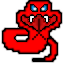
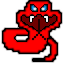
new game mode feature, minor changes on hard difficulty sprite, added adjustable apple gen

diff --git a/states/game_modes.py b/states/game_modes.py
@@ -1,0 +1,133 @@
+from components.button import *
+
+
+class GameModes:
+    def __init__(self, app):
+        self.game_modes_buttons = []
+        self.app = app
+        self.bg = pygame.image.load("imgs/menu.png")
+
+    def game_modes_events(self):
+        # GAME MODES EVENT HANDLING
+        for event in pygame.event.get():
+            if event.type == pygame.QUIT:
+                self.app.running = False
+            if event.type == pygame.K_ESCAPE:
+                self.app.running = False
+            if event.type == pygame.MOUSEBUTTONDOWN:
+                for button in self.game_modes_buttons:
+                    if button.hovered:
+                        button.click()
+                    else:
+                        pass
+
+    def game_modes_update(self):
+        # INTRO STATE UPDATE
+        for button in self.app.active_buttons:
+            button.update()
+
+    def game_modes_draw(self):
+        # INTRO STATE DRAW
+        for button in self.app.active_buttons:
+            button.draw()
+
+    def game_modes_casual(self):
+        # CASUAL MODE
+        self.app.apples_amount = 1
+        self.app.make_apples()
+        self.app.mode = "casual"
+        self.app.state = "interlude"
+
+    def game_modes_competitive(self):
+        # COMPETITIVE MODE
+        self.app.apples_amount = 1
+        self.app.make_apples()
+        self.app.mode = "competitive"
+        self.app.state = "interlude"
+
+    def game_modes_apples(self):
+        self.app.apples_amount = 500
+        self.app.make_apples()
+        self.app.mode = "apples"
+        self.app.state = "interlude"
+
+    def game_modes_obstacles(self):
+        self.app.apples_amount = 1
+        self.app.make_apples()
+        self.app.mode = "obstacles"
+        self.app.state = "interlude"
+
+    def game_modes_intro(self):
+        self.app.state = "intro"
+        self.app.active_buttons = self.app.intro.intro_buttons
+
+    def game_modes_quit(self):
+        # QUIT FROM INTRO STATE
+        self.app.running = False
+
+    def make_game_modes_buttons(self):
+        # MAKE INTRO BUTTONS
+        game_modes_casual_button = Button(self.app,
+                                        [300, 75],
+                                        200,
+                                        75,
+                                        COLORS.get("dark_green"),
+                                        TEXT_SIZE.get("medium"),
+                                        hover_color=COLORS.get("green"),
+                                        action=self.game_modes_casual,
+                                        text="KLASIKA")
+        self.game_modes_buttons.append(game_modes_casual_button)
+
+        game_modes_competitive_button = Button(self.app,
+                                        [300, 200],
+                                        200,
+                                        75,
+                                        COLORS.get("purple"),
+                                        TEXT_SIZE.get("medium"),
+                                        hover_color=COLORS.get("light_purple"),
+                                        action=self.game_modes_competitive,
+                                        text="KOMPET")
+        self.game_modes_buttons.append(game_modes_competitive_button)
+
+        game_modes_apples_button = Button(self.app,
+                                               [300, 325],
+                                               200,
+                                               75,
+                                               COLORS.get("red"),
+                                               TEXT_SIZE.get("medium"),
+                                               hover_color=COLORS.get("light_red"),
+                                               action=self.game_modes_apples,
+                                               text="JABKA")
+        self.game_modes_buttons.append(game_modes_apples_button)
+
+        game_modes_obstacles_button = Button(self.app,
+                                               [300, 450],
+                                               200,
+                                               75,
+                                               COLORS.get("orange"),
+                                               TEXT_SIZE.get("medium"),
+                                               hover_color=COLORS.get("light_orange"),
+                                               action=self.game_modes_obstacles,
+                                               text="KLÁDY")
+        self.game_modes_buttons.append(game_modes_obstacles_button)
+
+        game_modes_intro_button = Button(self.app,
+                                        [20, 805],
+                                        225,
+                                        50,
+                                        COLORS.get("yellow"),
+                                        TEXT_SIZE.get("small"),
+                                        hover_color=COLORS.get("light_yellow"),
+                                        action=self.game_modes_intro,
+                                        text="ZPĚT DO MENU")
+        self.game_modes_buttons.append(game_modes_intro_button)
+        game_modes_quit_button = Button(self.app,
+                                   [655, 805],
+                                   125,
+                                   50,
+                                   COLORS.get("red"),
+                                   TEXT_SIZE.get("small"),
+                                   hover_color=COLORS.get("light_red"),
+                                   action=self.game_modes_quit,
+                                   text="KONEC")
+        self.game_modes_buttons.append(game_modes_quit_button)

diff --git a/app.py b/app.py
@@ -2,31 +2,41 @@ import sys
 from game_window import *
 from entities.snake import *
 from entities.apple import *
-from states import play, intro, state_machine, pause, interlude, instructions, end_game
+from states import play, intro, state_machine, pause, interlude, instructions, end_game, game_modes
 
 
 class App:
     def __init__(self):
+        # ESSENTIALS
         pygame.init()
         self.clock = pygame.time.Clock()
         self.screen = pygame.display.set_mode((CELL_NUMBER * CELL_SIZE, (CELL_NUMBER * CELL_SIZE)+75))
         self.running = True
         self.fps = FPS
-        self.state = "intro"
-        self.state_machine = state_machine.StateMachine(self)
+        self.game_window = GameWindow(self)
+        # ICON
         self.icon = pygame.image.load("imgs/logo.png")
         pygame.display.set_icon(self.icon)
         pygame.display.set_caption("Had")
-        self.game_window = GameWindow(self)
+        # ENTITIES
+        self.snakes_start_pos = [Vector2(5, 10), Vector2(4, 10), Vector2(3, 10), Vector2(5, 5), Vector2(4, 5), Vector2(3, 5)]
         self.snake = Snake(self, [Vector2(5, 10), Vector2(4, 10), Vector2(3, 10)], Vector2(0, 0), False, "green")
         self.snake_2 = Snake(self, [Vector2(5, 5), Vector2(4, 5), Vector2(3, 5)], Vector2(0, 0), False, "purple")
-        self.apple = Apple(self)
+        self.apples_amount = 1
+        self.apples = []
+        self.make_apples()
+        # STATES
+        self.state = "intro"
+        self.state_machine = state_machine.StateMachine(self)
         self.intro = intro.Intro(self)
         self.interlude = interlude.Interlude(self)
         self.play = play.Play(self)
         self.pause = pause.Pause(self)
         self.instructions = instructions.Instructions(self)
         self.end_game = end_game.EndGame(self)
+        self.game_modes = game_modes.GameModes(self)
+        self.mode = None
+        # COMPONENTS
         self.active_buttons = self.intro.intro_buttons
         self.make_buttons()
         self.make_texts()
@@ -46,6 +56,7 @@ class App:
             self.clock.tick(self.fps)
             print(self.fps)
             print(self.instructions.active_difficulty)
+            print(self.mode)
         quit()
 
     def make_buttons(self):
@@ -55,6 +66,7 @@ class App:
         self.pause.make_pause_buttons()
         self.instructions.make_instructions_buttons()
         self.end_game.make_end_game_buttons()
+        self.game_modes.make_game_modes_buttons()
 
     def make_texts(self):
         self.instructions.make_instructions_texts()
@@ -62,3 +74,11 @@ class App:
 
     def make_difficulty(self):
         self.instructions.make_difficulty_snakes()
+
+    def make_apples(self):
+        self.apples = []
+        for num in range(self.apples_amount):
+            apple = Apple(self, random.randint(0, CELL_NUMBER - 1), random.randint(0, CELL_NUMBER - 1))
+            if apple.pos not in self.snakes_start_pos:
+                self.apples.append(apple)
+

diff --git a/states/intro.py b/states/intro.py
@@ -31,19 +31,21 @@ class Intro:
         for button in self.app.active_buttons:
             button.draw()
 
-    def intro_interlude_p1(self):
+    def intro_game_modes_p1(self):
         # FROM INTRO STATE TO PLAY
         self.app.snake.reset()
         self.app.snake_2.reset()
         self.app.snake_2.mp_disable = True
-        self.app.state = "interlude"
+        self.app.state = "game_modes"
+        self.app.active_buttons = self.app.game_modes.game_modes_buttons
 
-    def intro_interlude_p2(self):
+    def intro_game_modes_p2(self):
         # FROM INTRO STATE TO PLAY
         self.app.snake.reset()
         self.app.snake_2.reset()
         self.app.snake_2.mp_disable = False
-        self.app.state = "interlude"
+        self.app.state = "game_modes"
+        self.app.active_buttons = self.app.game_modes.game_modes_buttons
 
     def intro_instructions(self):
         self.app.state = "instructions"
@@ -55,27 +57,27 @@ class Intro:
 
     def make_intro_buttons(self):
         # MAKE INTRO BUTTONS
-        intro_interlude_p1_button = Button(self.app,
+        intro_game_modes_p1_button = Button(self.app,
                                         [(SCREEN_WIDTH / 2), (SCREEN_HEIGHT / 2) - 225],
                                         200,
                                         75,
                                         COLORS.get("dark_green"),
                                         TEXT_SIZE.get("normal"),
                                         hover_color=COLORS.get("green"),
-                                        action=self.intro_interlude_p1,
+                                        action=self.intro_game_modes_p1,
                                         text="1 HRÁČ")
-        self.intro_buttons.append(intro_interlude_p1_button)
+        self.intro_buttons.append(intro_game_modes_p1_button)
 
-        intro_interlude_p2_button = Button(self.app,
+        intro_game_modes_p2_button = Button(self.app,
                                         [(SCREEN_WIDTH / 2), (SCREEN_HEIGHT / 2) - 100],
                                         200,
                                         75,
                                         COLORS.get("purple"),
                                         TEXT_SIZE.get("normal"),
                                         hover_color=COLORS.get("light_purple"),
-                                        action=self.intro_interlude_p2,
+                                        action=self.intro_game_modes_p2,
                                         text="2 HRÁČI")
-        self.intro_buttons.append(intro_interlude_p2_button)
+        self.intro_buttons.append(intro_game_modes_p2_button)
 
         intro_instructions_button = Button(self.app,
                                            [(SCREEN_WIDTH / 2), (SCREEN_HEIGHT / 2) + 25],

diff --git a/states/state_machine.py b/states/state_machine.py
@@ -20,6 +20,8 @@ class StateMachine:
             self.app.instructions.instructions_events()
         if self.app.state == "end_game":
             self.app.end_game.end_game_events()
+        if self.app.state == "game_modes":
+            self.app.game_modes.game_modes_events()
 
     def update(self):
         # MAIN UPDATE
@@ -35,6 +37,8 @@ class StateMachine:
             self.app.instructions.instructions_update()
         if self.app.state == "end_game":
             self.app.end_game.end_game_update()
+        if self.app.state == "game_modes":
+            self.app.game_modes.game_modes_update()
 
     def draw(self):
         # MAIN DRAW
@@ -57,4 +61,7 @@ class StateMachine:
         if self.app.state == "end_game":
             self.app.screen.fill(COLORS.get("bgcolor"))
             self.app.end_game.end_game_draw()
+        if self.app.state == "game_modes":
+            self.app.screen.fill(COLORS.get("bgcolor"))
+            self.app.game_modes.game_modes_draw()
         pygame.display.update()

diff --git a/entities/snake.py b/entities/snake.py
@@ -121,13 +121,15 @@ class Snake:
         self.direction = Vector2(1, 0)
 
     def eat(self):
-        if self.app.apple.pos == self.body[0]:
-            self.app.apple.randomize()
-            self.add_block()
+        for apple in self.app.apples:
+            if apple.pos == self.body[0]:
+                apple.randomize()
+                self.add_block()
 
         for block in self.body[1:]:
-            if block == self.app.apple.pos:
-                self.app.apple.randomize()
+            for apple in self.app.apples:
+                if block == apple.pos:
+                    apple.randomize()
 
     def collision(self):
         if not 0 <= self.body[0].x < CELL_NUMBER or not 0 <= self.body[0].y < CELL_NUMBER:

diff --git a/entities/apple.py b/entities/apple.py
@@ -5,10 +5,12 @@ from settings import *
 
 
 class Apple:
-    def __init__(self, app):
+    def __init__(self, app, x, y):
         self.app = app
         self.img = pygame.image.load("imgs/apple.png")
-        self.randomize()
+        self.x = x
+        self.y = y
+        self.pos = Vector2(self.x, self.y)
 
     def draw(self):
         apple_rect = pygame.Rect(int(self.pos.x * CELL_SIZE), int(self.pos.y * CELL_SIZE), CELL_SIZE, CELL_SIZE)

diff --git a/game_window.py b/game_window.py
@@ -23,7 +23,8 @@ class GameWindow:
             self.app.snake_2.draw()
         else:
             pass
-        self.app.apple.draw()
+        for apple in self.app.apples:
+            apple.draw()
 
     def draw_game_window(self):
         # WINDOW GENERATE
